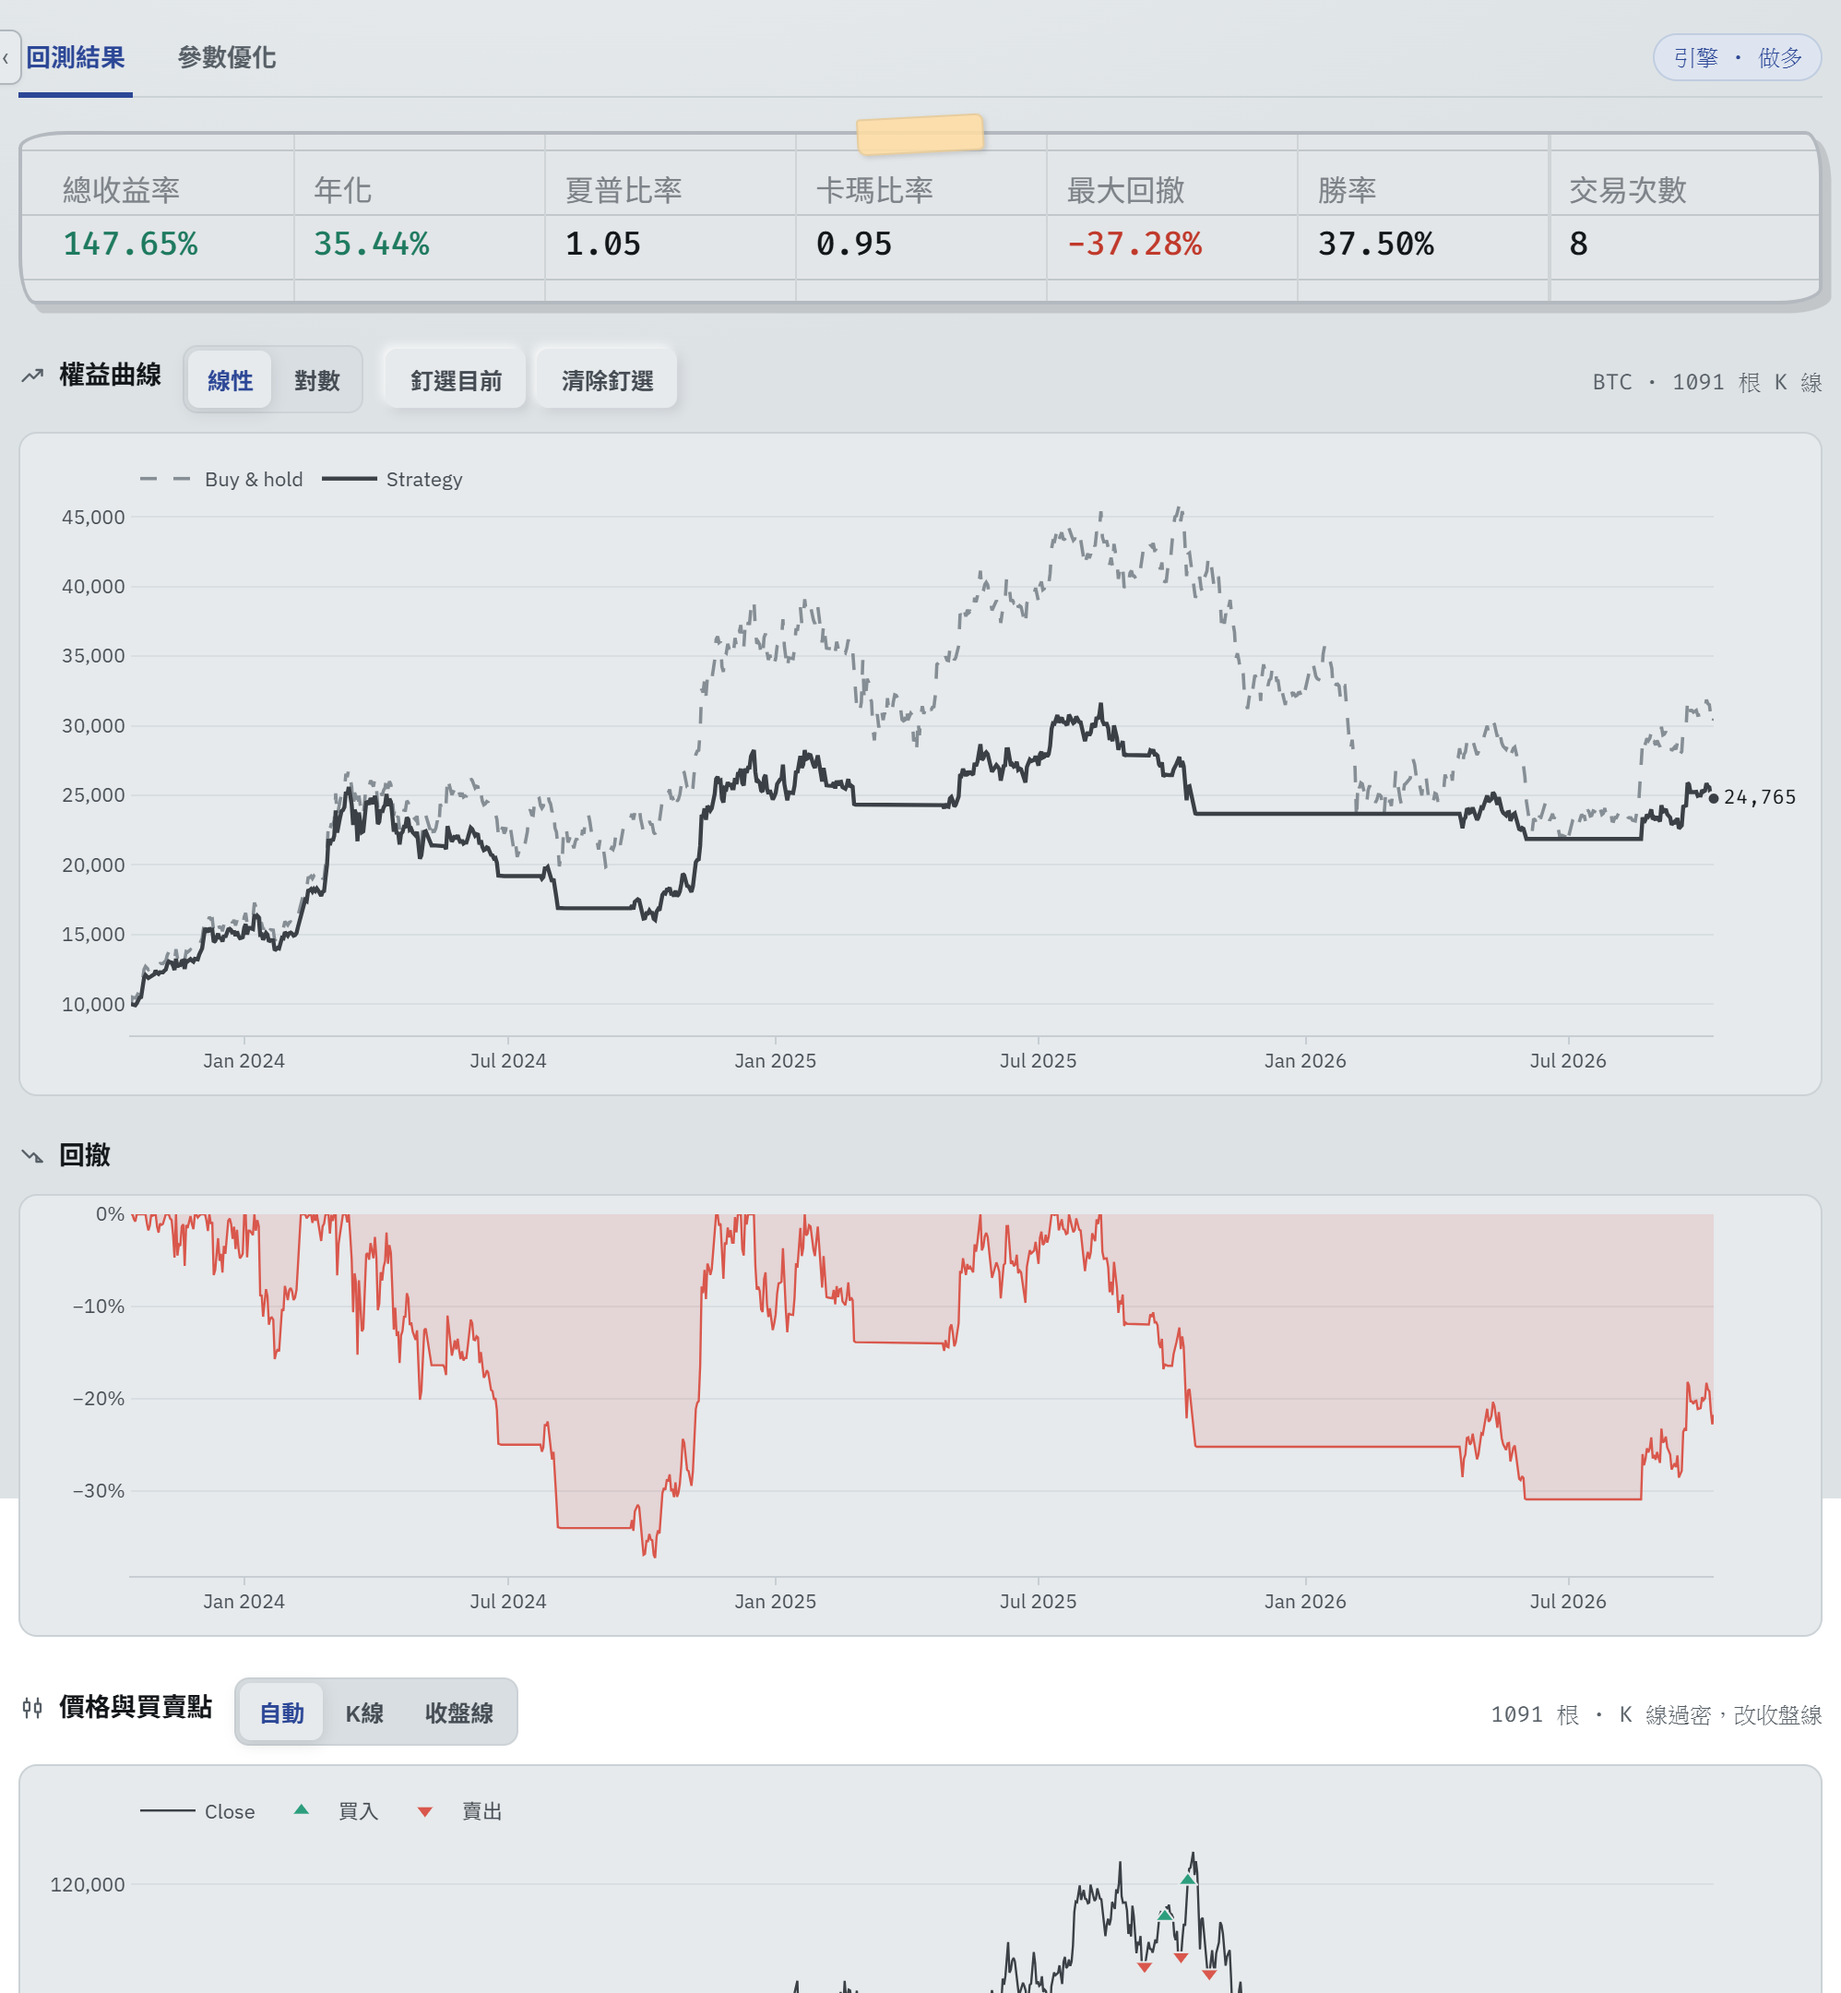
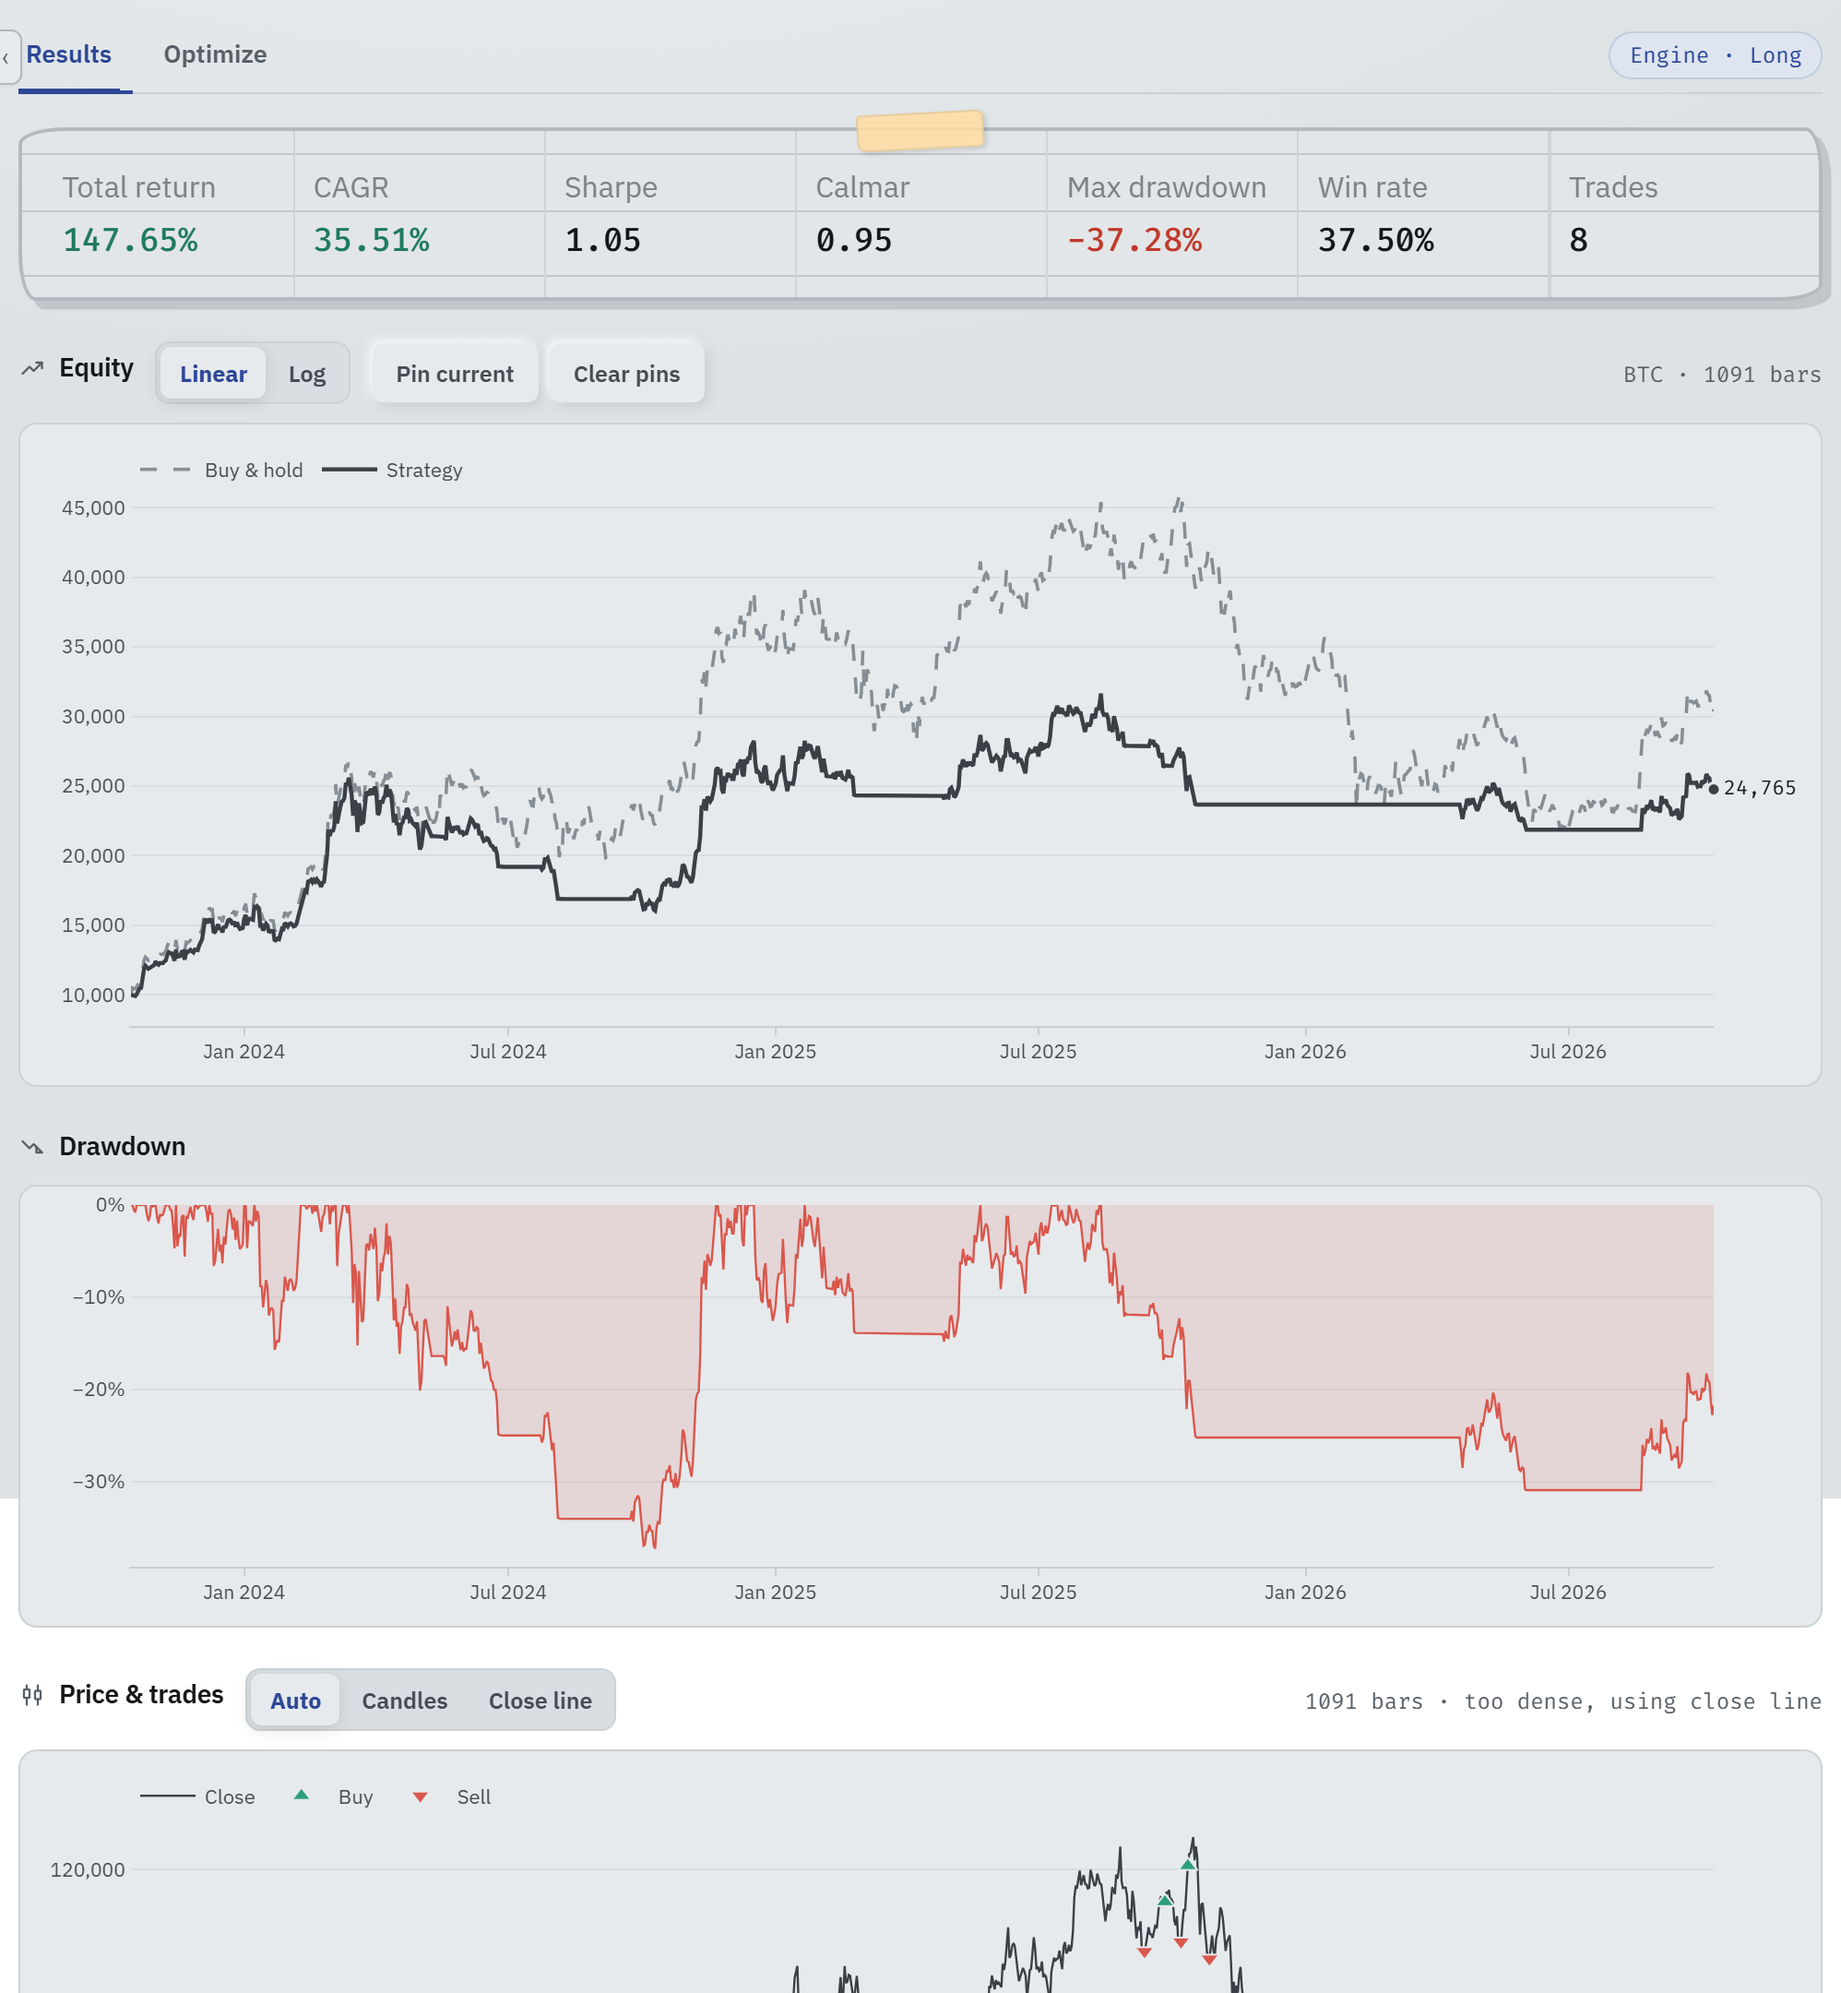
docs: English README screenshots; i18n buy/sell chart labels

diff --git a/web/assets/i18n.js b/web/assets/i18n.js
@@ -190,6 +190,8 @@
     "起點 = 100": "Start = 100",
     "等權買入持有": "Equal-weight buy & hold",
     "買入持有": "Buy & hold",
+    "買入": "Buy",
+    "賣出": "Sell",
     "組合權益": "Portfolio",
     "策略權益": "Strategy",
     "直接停損": "Direct stop",

diff --git a/docs/使用手冊.md b/docs/使用手冊.md
@@ -494,3 +494,4 @@ def generate(df, params):
 | 2026-10-15 | 分割修正同步到 app 實際讀取處：`update_stocks.py` 之後**同時寫入**主 import 目錄與本專案 `data\import_csv` 並清兩邊快取；已一併修好主 import 目錄（`C:\crypto-backtester\data\import_csv`）的 0050 |
 | 2026-10-15 | 修正下拉選單被下方欄位遮住、點不到選項的問題（例如「倉位管理 → 模式」）：新增 `.field:has(.dd.open){position:relative;z-index:100}`，將**開啟中下拉所在的欄位**提到最上層 |
 | 2026-10-15 | 便條紙讀數卡最上方格線由 8px 下移至 12px |
+| 2026-10-15 | README 預覽圖改用**英文介面**重新截圖（含英文範例程式碼）；i18n 補「買入／賣出 → Buy／Sell」（價格圖圖例）|
